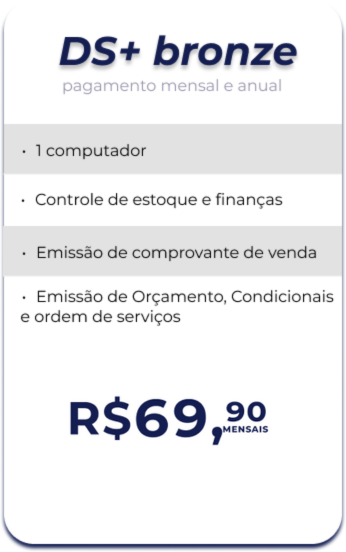
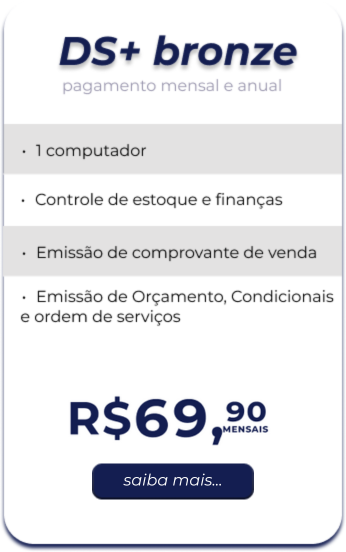
atualizações

Changed region(s): [[0.2601, 0.8315, 0.7514, 0.9239]]

diff --git a/assets/style.css b/assets/style.css
@@ -265,6 +265,11 @@ body{
 .bronze{
     height: 350px;    
 }
+.bronze:hover, .prata:hover,.ouro:hover{
+    transform: scale(1.2);
+    border-radius: 20px;
+    transition: 2s;
+}
 .prata{
     height: 450px;
 }
@@ -480,6 +485,7 @@ body{
     padding-top: 8px;
     width: 100%;
     margin-top: -0.5vh;
+    margin-top: 52vh;
 }
 .tittleAzul{
     background-color: #141E52;
@@ -600,17 +606,6 @@ body{
     margin-left: -35px;
 }
 .pdf{
-    border-radius: 20px;
-    border: 1px solid #524D4D;
-    display: flex;
-    align-items: center;
-    padding: 5px;
-    font-size: 12px;
-    font-style: italic;
-    font-family: 'Montserrat', sans-serif;
-    font-weight: 600;
-    padding-right: 20px;
-    background-color: #D9D9D9;
     visibility: hidden;
 }
 .pdf img{
@@ -625,8 +620,7 @@ body{
     display: flex;
     align-items: center;
     justify-content: center;
-    width: auto;
-    padding: 5px;
+    padding: 0.5vh 2vw 0.5vh 1vw;
     font-size: 12px;
     font-style: italic;
     font-family: 'Montserrat', sans-serif;
@@ -635,6 +629,7 @@ body{
     background-color: #D9D9D9;
     border-radius: 20px;
     border: 1px solid #524D4D;
+    color: #000000;
 }
 .enviarCurriculo{
     width: 100%;
@@ -664,17 +659,17 @@ body{
     cursor: not-allowed;
 }
 footer{
-    height: 50vh;
+    padding: 9vh 1em 3em 12vw;
     width: 100%;
     background-color: #010118;
     color: #ffffff;
     display: flex;
-    gap: 30px;
+    gap: 60px;
     align-items: center;
     justify-content: center;
 }
 footer h1{
-    font-size: 15px;
+    font-size: 20px;
     font-weight: 600;
 }
 footer p{
@@ -690,7 +685,35 @@ footer div{
     gap: 35px;
     width: 20vw;
 }
-.atendimento, .contato, .endereco, .siga{
+.endRedes{
+    gap: 10vh;
+    margin-top: -25px;
+    width: 15vw;
+}
+.endRedes hr{
+    width: 75px;
+}
+.contato{
+    display: flex;
+    gap: 5px;
+}
+.contato hr{
+    width: 75px;
+}
+.imgContato img{
+    width: 20px;
+}
+.img-Contato{
+    display: flex;
+    flex-direction: row;
+    gap: 3px;
+}
+.InfContato{
+    display: flex;
+    flex-direction: column;
+    gap: 6px;
+}
+.atendimento, .endereco, .siga, .Nossosapps{
     display: flex;
     flex-direction: column;
     gap: 5px;
@@ -712,8 +735,9 @@ footer hr{
 .contDmApp{
     display: flex;
     flex-direction: column;
-    gap: 20px;
+    gap: 10vh;
     width: 50vw;
+    margin-top: -30px;
 }
 .dom{
     display: flex;
@@ -721,6 +745,7 @@ footer hr{
     font-size: 10px;
     gap: 10px;
     align-items: center;
+    
 }
 .dom h1{
     font-size: 15px;
@@ -755,3 +780,101 @@ footer hr{
     height: 7vh;
     margin-top: 7px;
 }
+.Nossosapps hr{
+    width: 160px;
+}
+/* CSS DO SEJA REPRESENTANTE */
+.inic{
+    background-image: url(/Images/Fundo.png);
+    height: 100vh;
+    display: flex;
+    align-items: center;
+    flex-direction: column;
+    font-family: 'Montserrat', sans-serif;
+    width: 98.7vw;
+}
+.voltSelo{
+    width: 85%;
+    display: flex;
+    justify-content: space-between;
+}
+.voltSelo button{
+    background-color: #121837;
+    border-radius: 20px;
+    color: #ffffff;
+    display: flex;
+    align-items: center;
+    justify-content: center;
+    width: 140px;
+    font-weight: 600;
+    font-size: 15px;
+    text-transform: uppercase;
+    font-family: 'Montserrat', sans-serif;
+    gap: 1px;
+    border: none;
+    margin-top: 20px;
+}
+.voltSelo button img{
+    width: 40px;
+}
+.voltSelo a{
+    text-decoration: none;
+}
+.contDecRep{
+    width: 100%;
+    display: flex;
+    margin-right: 500px;
+}
+.descRepresentante{
+    color: #ffffff;
+    width: 30%;
+    display: flex;
+    flex-direction: column;
+}
+.titRep{
+    background-color: #19AD57;
+    padding: 7px;
+    width: 24vw;
+    border-radius: 20px;
+    font-size: 1vw;
+    z-index: 2;
+}
+.titRep h1{
+    text-transform: uppercase;
+}
+.ExpRep{
+    background-color: rgba(0, 0, 0, 0.5);
+    width: 30vw;
+    border-radius: 20px;
+    padding: 10px;
+    margin-top: -10px;
+    z-index: 1;
+}
+.saibaMaisRep{
+    display: flex;
+    width: 100%;
+    justify-content: flex-end;
+    z-index: 5;
+}
+.saibaMaisRep button{
+    background-color: #ffffff;
+    border: none;
+    display: flex;
+    align-items: center;
+    justify-content: center;
+    width: 170px;
+    padding: 6px;
+    color: #31BA45;
+    text-transform: uppercase;
+    font-weight: 900;
+    border-radius: 20px;
+    margin-top: -10px;
+    
+}
+.saibaMaisRep a{
+    text-decoration: none;
+}
+.saibaMaisRep img{
+    width: 30px;
+}
+

diff --git a/index.html b/index.html
@@ -117,9 +117,9 @@
             <section class="divisoria"></section>
         </div>
         <section class="valorPlanos">
-            <img class="bronze" src="/Images/bronze.png" alt="">
-            <img class="prata" src="/Images/prata.png" alt="">
-            <img class="ouro" src="/Images/ouro.png" alt="">
+            <a href="https://wa.me/554334723530?text=Ol%C3%A1%21%21+Gostaria+de+saber+mais+sobre+o+plano+bronze%21"><img class="bronze" src="/Images/bronze.png" alt=""></a>
+            <a href="https://wa.me/554334723530?text=Ol%C3%A1%21%21+Gostaria+de+saber+mais+sobre+o+plano+prata%21"><img class="prata" src="/Images/prata.png" alt=""></a>
+            <a href="https://wa.me/554334723530?text=Ol%C3%A1%21%21+Gostaria+de+saber+mais+sobre+o+plano+ouro%21"><img class="ouro" src="/Images/ouro.png" alt=""></a>
         </section>
         <section class="msgTeste">
             <img src="/Images/Medium Risk.png" alt="">
@@ -245,23 +245,32 @@
                     <div class="atendimento">
                         <h1>Atendimento</h1>
                         <hr>
-                        <p>Segunda à sexta - 8h às 18h
-                            Sábados - 8h às 12h
-                            Domingos e feriados - Fechado</p>
+                        <p>Segunda à sexta - 8h às 18h</p> 
+                        <p>Sábados - 8h às 12h</p> 
+                        <p>Domingos e feriados - Fechado</p>
                     </div>
                     <div class="contato">
                         <h1>Contato</h1>
                         <hr>
-                        <p><img src="/Images/Circled Envelope.png" alt="">sistemadominus@gmail.com</p>
-                        <p><img src="/Images/WhatsApp.png" alt="">+55 43 3472-3530</p>
-                        <p><img src="/Images/WhatsApp.png" alt="">+55 43 9 9926-5753</p>
+                        <div class="img-Contato">
+                            <div class="imgContato">
+                                <img src="/Images/Circled Envelope.png" alt="">
+                                <img src="/Images/WhatsApp.png" alt="">
+                                <img src="/Images/WhatsApp.png" alt="">
+                            </div>
+                            <div class="InfContato">
+                                <p>sistemadominus@gmail.com</p>
+                                <p>+55 43 3472-3530</p>
+                                <p>+55 43 9 9926-5753</p>
+                            </div>
+                        </div>
                     </div>
                 </div>
                 <div class="endRedes">
                     <div class="endereco">
                         <h1>Endereço</h1>
                         <hr>
-                        <p>Av. Paraná, 1215, Centro - Ivaiporã / PR</p>
+                        <p>Av. Paraná, 1215, Centro Ivaiporã / PR</p>
                     </div>
                     <div class="siga">
                         <h1>Siga-nos</h1>

diff --git a/sejaRepresentante.html b/sejaRepresentante.html
@@ -9,22 +9,24 @@
 <body>
     <section id="sejaRepresentante">
         <div class="inic">
-        <div class="voltSelo">
-            <a href="index.html"><button><img src="/Images/seta voltar.png" alt=""> Voltar</button></a>
-            <img src="/Images/selo parceiro DS.png" alt="">
-        </div>
-        <div class="descRepresentante">
-            <div class="titRep">
-                <p>Seja um</p>
-                <h1>Representante Comercial</h1>
+            <div class="voltSelo">
+                <a href="index.html"><button><img src="/Images/seta voltar.png" alt=""> Voltar</button></a>
+                <img src="/Images/selo parceiro DS.png" alt="">
             </div>
-            <div class="ExpRep">
-                <p>Se tornando Representante Comercial Dominus Software você se torna dono do seu próprio negócio, afim de estar financeiramente independente possivilitando a escolha de trabaçhar no horario que preferir e garantindo uma renda extra para o seu bolso. Temos varios modelos de parceria e você pode escolher o modelo que mais se adaptar no seu gosto. Entre em contato conosco e saiba mais!</p>
+            <div class="contDecRep"></div>
+                <div class="descRepresentante">
+                    <div class="titRep">
+                        <p>Seja um</p>
+                        <h1>Representante Comercial</h1>
+                    </div>
+                    <div class="ExpRep">
+                        <p>Se tornando Representante Comercial Dominus Software você se torna dono do seu próprio negócio, afim de estar financeiramente independente possivilitando a escolha de trabaçhar no horario que preferir e garantindo uma renda extra para o seu bolso. Temos varios modelos de parceria e você pode escolher o modelo que mais se adaptar no seu gosto. Entre em contato conosco e saiba mais!</p>
+                    </div>
+                    <div class="saibaMaisRep">
+                        <a href=""><button><img src="/Images/WhatsApp-icone.png" alt=""> Saiba Mais!</button></a>
+                    </div>
+                </div>
             </div>
-            <div class="saibaMaisRep">
-                <a href=""><button><img src="/Images/WhatsApp-icone.png" alt=""> Saiba Mais!</button></a>
-            </div>
-        </div>
         </div>
         <div class="vantagens">
             <div class="containerVant">
